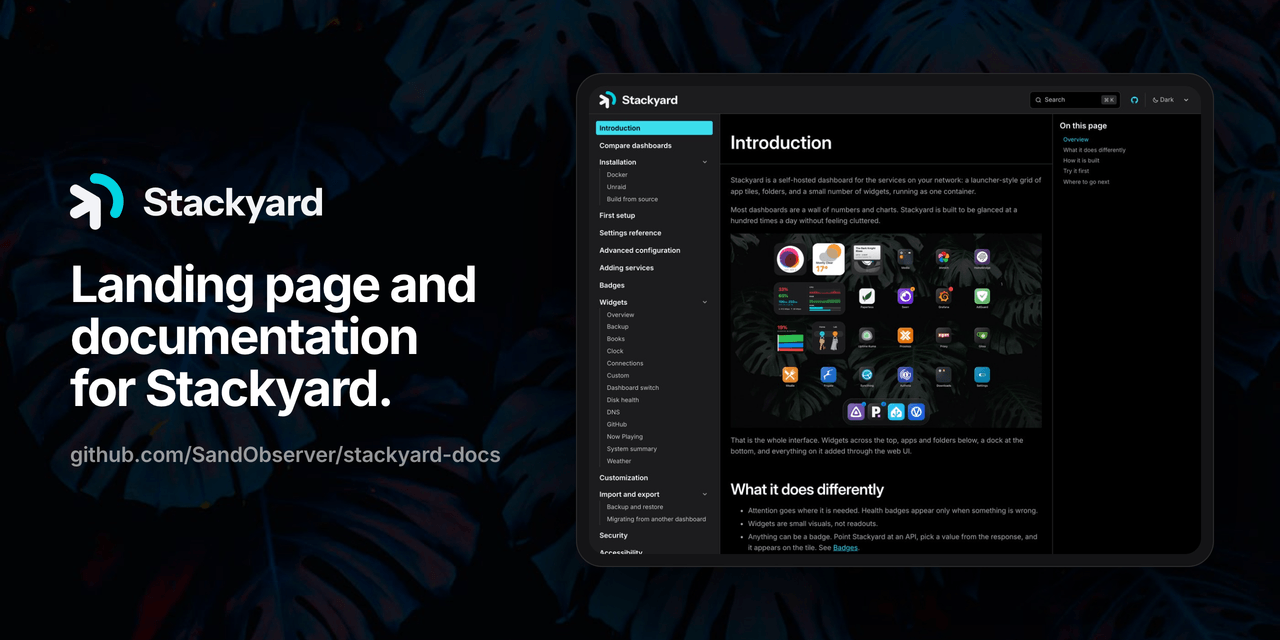
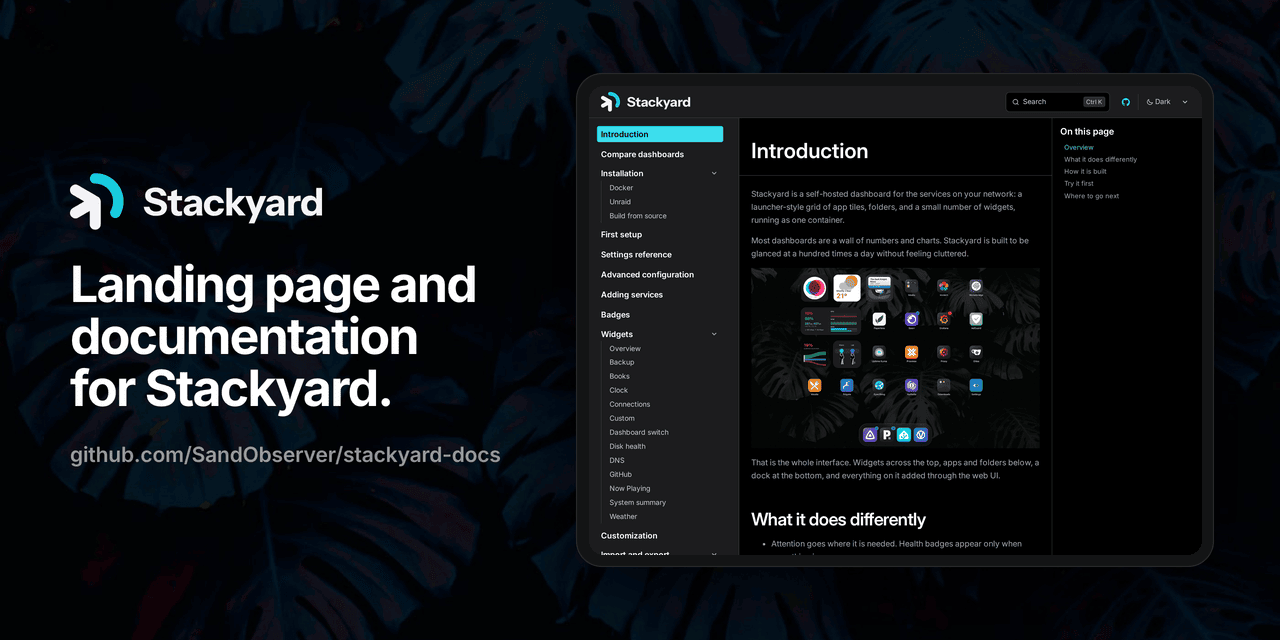
Refresh screenshots for Stackyard 1.12.0 (#48)

Changed region(s): [[0.4688, 0.125, 0.9375, 0.875]]

diff --git a/src/content/docs/docs/adding-services.md b/src/content/docs/docs/adding-services.md
@@ -12,7 +12,7 @@ Apps are added under **Dashboard** in the admin UI. Nothing here edits a file by
 Press <span class="sy-btn sy-btn--primary">Add</span>, then fill in the app.
 
 <figure class="sy-shot">
-  <img class="sy-shot__light" src="/img/admin/app-edit-basics.png" alt="The app edit form, showing Name, URL, Icon and Color" loading="lazy"><img class="sy-shot__dark" src="/img/admin/app-edit-basics-dark.png" alt="The app edit form, showing Name, URL, Icon and Color" loading="lazy">
+  <img class="sy-shot__light" src="/img/admin/app-edit-basics-b3c6980e.png" alt="The app edit form, showing Name, URL, Icon and Color" loading="lazy"><img class="sy-shot__dark" src="/img/admin/app-edit-basics-dark-2910e8f5.png" alt="The app edit form, showing Name, URL, Icon and Color" loading="lazy">
   <figcaption>Name, URL, icon and tile colour. Icon takes a name, a URL, or an upload.</figcaption>
 </figure>
 
@@ -49,14 +49,14 @@ Create one from <span class="sy-btn sy-btn--primary">Add</span>, name it, then u
 The Dashboard list holds everything on the grid in one flat list. List order is grid order. Drag a row's handle, or use the arrows on the row, and the new order is saved straight away. There is nothing to confirm.
 
 <figure class="sy-shot">
-  <img class="sy-shot__light" src="/img/admin/dashboard-list.png" alt="The Dashboard list, with drag handles, move arrows and an Edit button on each row" loading="lazy"><img class="sy-shot__dark" src="/img/admin/dashboard-list-dark.png" alt="The Dashboard list, with drag handles, move arrows and an Edit button on each row" loading="lazy">
+  <img class="sy-shot__light" src="/img/admin/dashboard-list-0d98d7b7.png" alt="The Dashboard list, with drag handles, move arrows and an Edit button on each row" loading="lazy"><img class="sy-shot__dark" src="/img/admin/dashboard-list-dark-e87991d0.png" alt="The Dashboard list, with drag handles, move arrows and an Edit button on each row" loading="lazy">
   <figcaption>Each row carries a drag handle, the move arrows, and Edit.</figcaption>
 </figure>
 
 Rows are tagged with what is configured on them.
 
 <figure class="sy-shot">
-  <img class="sy-shot__light" src="/img/admin/dashboard-apps.png" alt="The list filtered to apps, showing Dock and Badge tags" loading="lazy"><img class="sy-shot__dark" src="/img/admin/dashboard-apps-dark.png" alt="The list filtered to apps, showing Dock and Badge tags" loading="lazy">
+  <img class="sy-shot__light" src="/img/admin/dashboard-apps-3dd6a50c.png" alt="The list filtered to apps, showing Dock and Badge tags" loading="lazy"><img class="sy-shot__dark" src="/img/admin/dashboard-apps-dark-34e8c0e1.png" alt="The list filtered to apps, showing Dock and Badge tags" loading="lazy">
   <figcaption>Filtered to apps. The move arrows are hidden while a filter is on, so reordering is disabled until you clear it.</figcaption>
 </figure>
 

diff --git a/src/content/docs/docs/badges.md b/src/content/docs/docs/badges.md
@@ -31,7 +31,7 @@ A badge is the small pill on the corner of an app tile. It carries context witho
 Each kind is turned on per app, in that app's edit form under Badge.
 
 <figure class="sy-shot">
-  <img class="sy-shot__light" src="/img/admin/app-edit-badge.png" alt="The Badge section of an app's edit form: Health Check, Fixed Label and Live Activity" loading="lazy"><img class="sy-shot__dark" src="/img/admin/app-edit-badge-dark.png" alt="The Badge section of an app's edit form: Health Check, Fixed Label and Live Activity" loading="lazy">
+  <img class="sy-shot__light" src="/img/admin/app-edit-badge-8cf6ea34.png" alt="The Badge section of an app's edit form: Health Check, Fixed Label and Live Activity" loading="lazy"><img class="sy-shot__dark" src="/img/admin/app-edit-badge-dark-48e1e5f8.png" alt="The Badge section of an app's edit form: Health Check, Fixed Label and Live Activity" loading="lazy">
   <figcaption>The three kinds, each with its own toggle. Live Activity opens the API fields when it is on.</figcaption>
 </figure>
 
@@ -75,7 +75,7 @@ Enter the API URL and press <span class="sy-btn sy-btn--ghost">Fetch</span>. Sta
 One poll can feed several labels. Each names one number from the response and carries its own text, colour, unit and threshold.
 
 <figure class="sy-shot">
-  <img class="sy-shot__light" src="/img/admin/app-edit-labels.png" alt="Two label cards in an app's edit form, each with Value, Label Text, Color, Unit and Show From, above the Add Label button" loading="lazy"><img class="sy-shot__dark" src="/img/admin/app-edit-labels-dark.png" alt="Two label cards in an app's edit form, each with Value, Label Text, Color, Unit and Show From, above the Add Label button" loading="lazy">
+  <img class="sy-shot__light" src="/img/admin/app-edit-labels-27443940.png" alt="Two label cards in an app's edit form, each with Value, Label Text, Color, Unit and Show From, above the Add Label button" loading="lazy"><img class="sy-shot__dark" src="/img/admin/app-edit-labels-dark-4998668a.png" alt="Two label cards in an app's edit form, each with Value, Label Text, Color, Unit and Show From, above the Add Label button" loading="lazy">
   <figcaption>Press Add Label for another. Drag a card by its handle to reorder it, or use the arrows.</figcaption>
 </figure>
 

diff --git a/src/content/docs/docs/customization.md b/src/content/docs/docs/customization.md
@@ -19,7 +19,7 @@ Browsers only allow Keep Screen Awake over HTTPS. On a plain HTTP address the to
 
 
 <figure class="sy-shot">
-  <img class="sy-shot__light" src="/img/admin/appearance.png" alt="The Appearance section of the admin UI" loading="lazy"><img class="sy-shot__dark" src="/img/admin/appearance-dark.png" alt="The Appearance section of the admin UI" loading="lazy">
+  <img class="sy-shot__light" src="/img/admin/appearance-d7bb5b62.png" alt="The Appearance section of the admin UI" loading="lazy"><img class="sy-shot__dark" src="/img/admin/appearance-dark-e18f071b.png" alt="The Appearance section of the admin UI" loading="lazy">
   <figcaption>Appearance, in the admin UI.</figcaption>
 </figure>
 

diff --git a/src/content/docs/docs/index.md b/src/content/docs/docs/index.md
@@ -7,7 +7,7 @@ Stackyard is a self-hosted dashboard for the services on your network: a launche
 
 Most dashboards are a wall of numbers and charts. Stackyard is built to be glanced at a hundred times a day without feeling cluttered.
 
-<img src="/img/dashboard-c33a4d22.jpg" width="1800" height="1125" alt="The Stackyard dashboard, showing widgets, app tiles, a folder and the dock." />
+<img src="/img/dashboard-c1303e4c.jpg" width="1800" height="1125" alt="The Stackyard dashboard, showing widgets, app tiles, a folder and the dock." />
 
 That is the whole interface. Widgets across the top, apps and folders below, a dock at the bottom, and everything on it added through the web UI.
 
